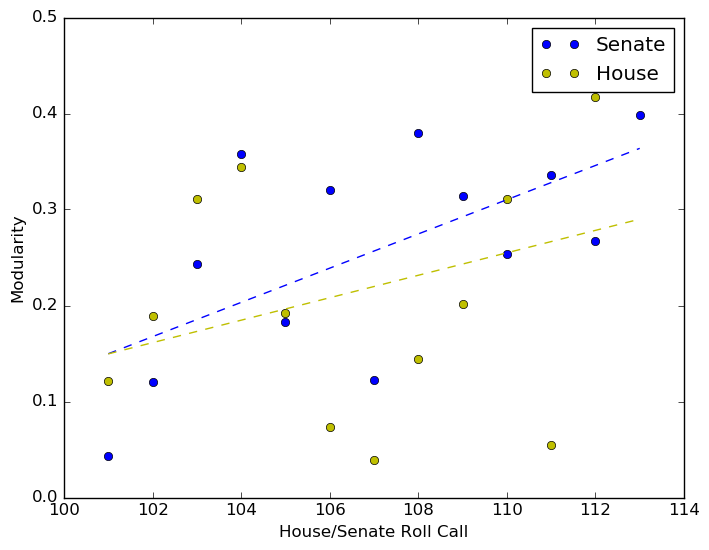
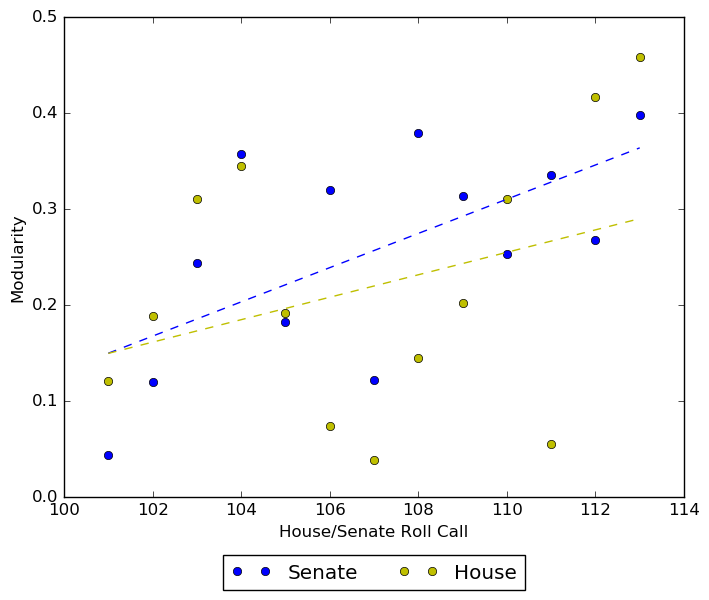
Move legend so it doen't cover data

diff --git a/cluster_igraph.py b/cluster_igraph.py
@@ -62,7 +62,7 @@ if __name__ == "__main__":
   plt.plot(roll_range, house_modularities, 'yo', label="House")
   plt.ylabel('Modularity')
   plt.xlabel('House/Senate Roll Call')
-  plt.legend()
+  plt.legend(loc=9, bbox_to_anchor=(0.5, -0.1), ncol=2)
 
   # compute linear trend for senate and add to plot
   z = numpy.polyfit(roll_range, sen_modularities, 1)
